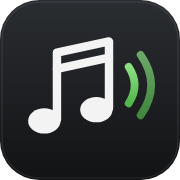
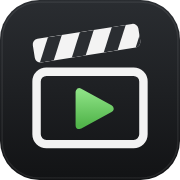
Icône de MouFlip : un clap de cinéma avec une flèche de lecture (c'était celle de MouFlopening)
Claude-Session: https://claude.ai/code/session_01GgAAypGxpCx9CSD41rrXxx

Changed region(s): [[0.1389, 0.1111, 0.8611, 0.8333]]

diff --git a/CHANGELOG.md b/CHANGELOG.md
@@ -2,6 +2,7 @@
 
 ## [0.1] - 2026-11-07
 Première version de MouFlip (clips vidéo K-pop pour Emby).
+- 🎬 **Icône à lui** : un clap de cinéma avec une flèche de lecture (c'était celle de MouFlopening, une note de musique). Remplacés : `icons/mouflip.svg`, les trois PNG (512, 192, 180) et le favicon 32 px ; description du manifeste corrigée.
 - 🎧 **Son studio automatique** (⚙ Réglages → Son studio → Automatique) : quand tu ranges un clip, son son studio est récupéré et **rangé tout seul** dans la Musique si tout est sûr (même artiste, même titre, durée à 15 s ou 10 % de celle du clip) ; sinon il reste « prêt à ranger » avec la raison. Une seule validation : celle du clip.
 - 🎧 **Son studio** : bouton « 🎧 Son studio » sur chaque clip et sur les clips cochés. Récupère le titre tel que le label l'a publié (YouTube Musique : description « Provided to YouTube by… » ou chaîne « Topic », jamais un live, un remix ni la bande-son du clip), règle le volume (89 dB, AACGain sans perte, MP3 comme M4A), met les étiquettes et range dans « Musique » (`Artiste/Album/Artiste - Album - NN - Titre`) sur confirmation, sans jamais remplacer un fichier. Format **M4A** (son AAC recopié sans perte) ou **MP3** au choix dans ⚙ Réglages ; « Ranger les N sons prêts » en lot.
 - 🎵 **Playlists Deezer** : colle l'adresse d'une playlist publique et une date ; seuls les morceaux ajoutés depuis cette date sont regardés (API publique de Deezer, sans clé). Chaque morceau est relié à son artiste (MusicBrainz) puis à son clip officiel : clips trouvés (toucher = ouvre le groupe avec ce clip coché), déjà dans la médiathèque, sans clip, artiste introuvable, versions alternatives ignorées. « ✅ Tout marquer comme vu » avance la date. Rien n'est téléchargé sans ton clic.
